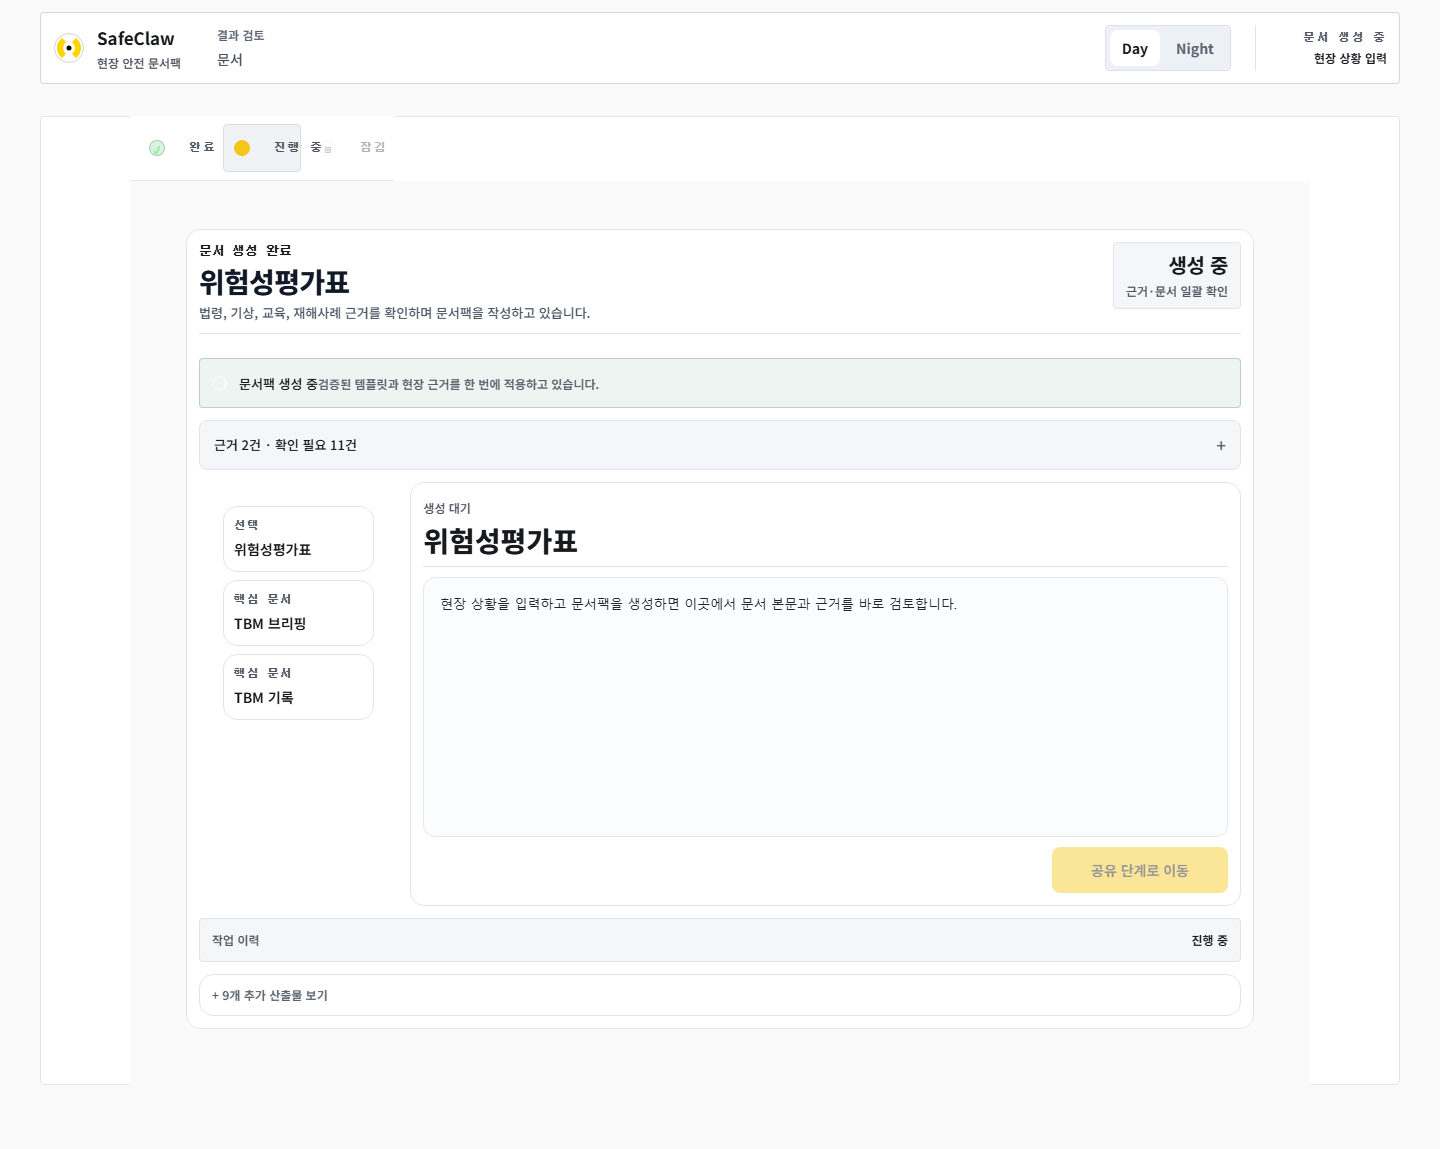
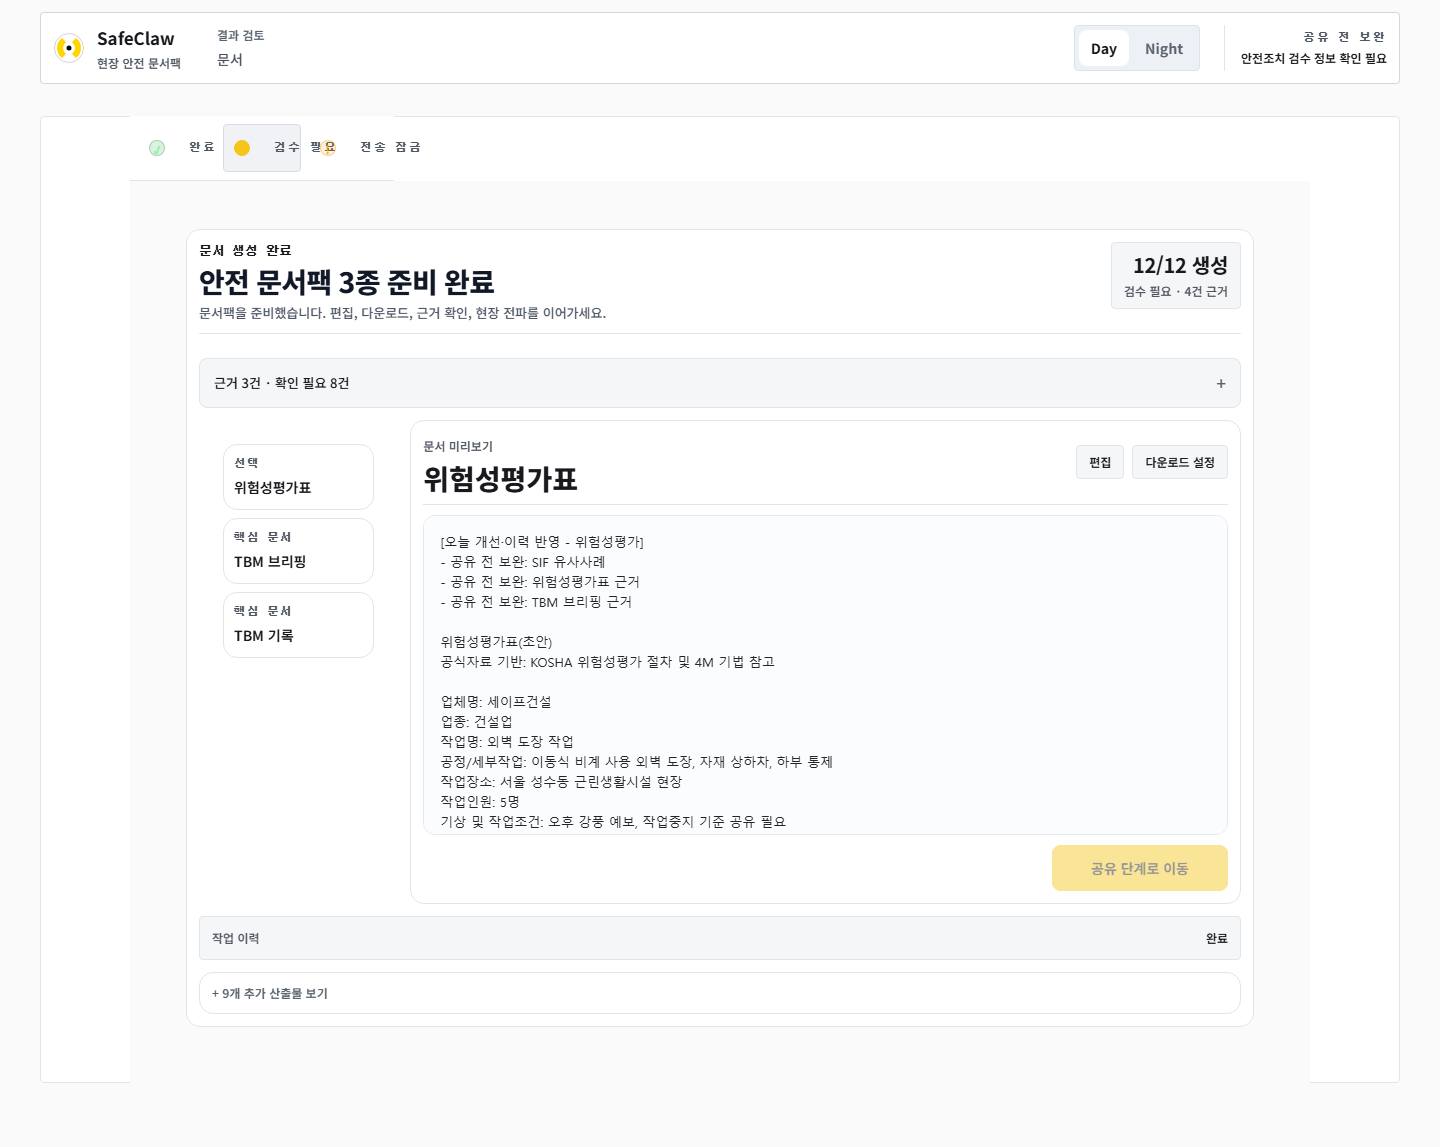
chore: document workspace share mismatch verdict

diff --git a/evaluation/workspace-docs-share-production-gate-2026-07-20/current-verdict.md b/evaluation/workspace-docs-share-production-gate-2026-07-20/current-verdict.md
@@ -4,35 +4,81 @@ Checked at: 2026-07-20 KST
 
 ## Verdict
 
-**FIXED for the original Documents/Share geometry blocker, with a remaining product-depth follow-up.**
+**PARTIALLY FIXED.**
 
-The current production surface no longer reproduces the old launch blocker for the default document review stage, the share desktop breakpoint, or the edit-mode first-action placement. The editor still has a long full document surface below the fold, but the first editable body now appears in the first viewport instead of being pushed below a risk-row editor.
+The current production surface no longer reproduces the old launch blocker for the default document review stage or the share desktop breakpoint. The staged `입력 -> 문서 -> 공유` flow is also real in the default flow: only one stage is visible at a time.
+
+However, the edit surface still contains a very tall internal document editor panel below the first action. So the mismatch is real: prior static/design-contract passes and the default document/share geometry gate did not fully prove the workflow-level edit experience the user expected.
 
 ## Authoritative Surface
 
-- Git HEAD used for source comparison: `b1ec3635dbc0f60b4964ee5befbe2e03d311813f`
+- Git HEAD used for source comparison: `778f4601b359adc7ea716ee84eebdaa58f026115`
 - Served URL: `https://www.safeclaw.kr/workspace`
 - Build info endpoint: `https://www.safeclaw.kr/api/build-info`
-- Served commit: `b1ec3635dbc0f60b4964ee5befbe2e03d311813f`
+- Served commit: `778f4601b359adc7ea716ee84eebdaa58f026115`
 - Served branch: `master`
-- Deployment URL: `safeguard-contest-5yybjwagl-seojaehongs-projects.vercel.app`
+- Deployment URL: `safeguard-contest-iig0xw90t-seojaehongs-projects.vercel.app`
+
+The current probe waits for generated document readiness (`12/12 생성` or `안전 문서팩 3종 준비 완료`) before measuring, so it does not accidentally capture the interim generating shell.
 
 ## Results
 
 | Viewport | Stage | Page height | Stage y | Stage height | Key result |
 | --- | --- | ---: | ---: | ---: | --- |
-| 1440x900 | Documents review | 1149 | 229 | 800 | Fixed versus prior 2070px/723px sticky report |
-| 1440x900 | Document edit | 1489 | 63 editor y / 350 textarea y | 2561 editor height | Improved; editable body is now first-viewport visible |
+| 1440x900 | Documents review | 1147 | 229 | 798 | Fixed versus prior 2070px/723px sticky report |
+| 1440x900 | Document edit | 1489 | 63 editor y / 350 textarea y | 2561 editor height | Partially fixed; first textarea is visible, but the editor surface remains overlong |
 | 1440x900 | Share | 1174 | 189 | 921 | Fixed; 1180px desktop surface, not mobile-card width |
 | 390x844 | Documents review | 1417 | 262 | 1050 | Acceptable as a compact step, no horizontal overflow |
-| 390x844 | Document edit | 1152 | 84 editor y / 407 textarea y | 2696 editor height | Fixed versus the late first-body blocker; textarea starts in the first viewport |
+| 390x844 | Document edit | 1152 | 84 editor y / 407 textarea y | 2696 editor height | Partially fixed; textarea starts in the first viewport, but hidden editor depth remains high |
 | 390x844 | Share | 1487 | 244 | 1138 | Not the old 3836px share body; one primary CTA, no horizontal overflow |
 
 ## Interpretation
 
-The staged `입력 -> 문서 -> 공유` routing is now real in the default flow: only one of input, documents, or share is visible at a time. The old share desktop problem is also fixed on current production because the share surface is 1180px wide at 1440px desktop.
+The original default-stage complaints are fixed on current production:
 
-The bounded edit remediation moved the 위험성평가 구조화 행 editor below the document body. On mobile, the first textarea now begins at y=407 in an 844px viewport; on desktop it begins at y=350. This closes the "편집 후 첫 행동이 아래로 밀리는" geometry issue while preserving the structured risk-row editor, provenance drawers, and export tools below the main body.
+- Documents default review is `1147 / 900 = 1.27x` on desktop, not the old `2070 / 723 = 2.86x` report.
+- Mobile default review is `1417 / 844 = 1.68x`, with no horizontal overflow or sticky overlap.
+- Desktop share is a `1180px` surface at `1440px`, so it is no longer a narrow mobile-card layout.
+- Share has one primary CTA and no horizontal overflow on desktop or mobile.
+
+The remaining mismatch is the edit-mode product depth:
+
+- Desktop edit body is `1489 / 900 = 1.65x`, and the editor panel itself reports `2561px` height.
+- Mobile edit body is `1152 / 844 = 1.36x`, but the editor panel reports `2696px` height.
+- This means the first editable textarea is near the first viewport (`y=350` desktop, `y=407` mobile), but the full edit model still carries a long below-fold surface.
+
+That is why the prior "done" signal and the user's current perception diverged: the implemented work closed default review/share geometry and first editor entry, but did not fully redesign edit mode into a short, field-first document editor.
+
+## Implementation Trace
+
+The requested UX work was implemented across bounded fixes that are integrated into current HEAD:
+
+- `54af1d7d` `fix: tighten workspace document and share stages`
+  - touched `components/SafeGuardCommandCenter.tsx`, `app/globals.css`, `tests/frontend-workbench-visual-contract.test.ts`, `tests/north-star-document-ux.test.ts`, `tests/workspace-share-mobile-browser.test.ts`
+  - changed staged workspace documents/share surfaces and captured desktop/mobile evidence.
+- `652ba44c` `fix: widen workspace share desktop surface`
+  - touched `app/globals.css`
+  - widened the share surface on desktop.
+- `98ddcddd` `fix: widen workspace share desktop layout`
+  - touched `app/globals.css`
+  - further adjusted the share desktop composition.
+- `4a6e35fb` `fix: compact documents mobile editor entry`
+  - touched `app/globals.css`
+  - moved the mobile edit entry up and reduced the first-action delay.
+- `a2535d21` `chore: tighten workspace doc share gate`
+  - tightened the production gate so document measurements wait for generated-state readiness.
+
+All five commits are ancestors of current HEAD `778f4601`. A separate older geometry commit `ddda375d` is not an ancestor of this branch, but the current DOM/CSS still contains the effective later fixes listed above.
+
+## Mismatch Finding
+
+**Reason for mismatch:** prior completion language was too broad. It should have said "default document review and share desktop layout fixed; edit mode still has product-depth work."
+
+Possible user-surface mismatch sources:
+
+- If the user saw a narrow share card on desktop, they were likely on stale/non-authoritative local dev, cached deploy, or an older branch. Current production build `778f4601` renders `1180px` share width.
+- If the user clicked `편집` and judged the full edit experience, that is not stale. The current production edit surface is still long internally and remains a bounded UX follow-up.
+- Static 0 / 108 contract passes should not be treated as proof for this workflow-level gate unless they also measure generated document readiness, document height ratio, editor entry y-position, sticky overlap, and desktop share width.
 
 ## Evidence
 
@@ -48,10 +94,11 @@ The bounded edit remediation moved the 위험성평가 구조화 행 editor belo
 
 ## Next Remediation Gate
 
-Bounded fix target: keep review/share as they are, and only compress edit mode.
+Bounded fix target: keep default review/share as they are, and compress edit mode without changing the generation/harness contract.
 
-- Desktop edit: editor body should fit the first viewport better, with the editable body visible without deep scrolling.
-- Mobile edit: textarea or first structured field should start above y=420, and editor page height should be materially reduced.
+- Desktop edit: keep textarea y <= 350 and reduce internal editor panel height materially from 2561px.
+- Mobile edit: keep textarea y <= 420 and reduce internal editor panel height materially from 2696px.
+- Replace the long single textarea/default appendix feel with field-first document editing and collapsed provenance/export tools.
 - Keep one visible stage at a time.
 - Preserve existing workpack/document persistence and provenance data.
 
@@ -77,13 +124,20 @@ Verification:
 
 ## Post-Deploy Verification
 
-After commit `b1ec3635dbc0f60b4964ee5befbe2e03d311813f` was deployed to production, the same geometry probe was rerun against `https://www.safeclaw.kr`.
+After commit `778f4601b359adc7ea716ee84eebdaa58f026115` was deployed to production, the same geometry probe was rerun against `https://www.safeclaw.kr`.
 
-- Served commit: `b1ec3635dbc0f60b4964ee5befbe2e03d311813f`
-- Desktop documents review: page height 1149, horizontal overflow false
+- Served commit: `778f4601b359adc7ea716ee84eebdaa58f026115`
+- Desktop documents review: page height 1147, horizontal overflow false
 - Desktop share: 1180px share surface, one primary CTA, horizontal overflow false
 - Mobile documents review: page height 1417, horizontal overflow false
 - Mobile document edit: page height 1152, horizontal overflow false, no sticky/fixed overlap detected, first textarea y=407
 - Mobile share: page height 1487, one primary CTA, horizontal overflow false
 
 Raw evidence was refreshed in `current-geometry.json` and the `*-current-*.png` screenshots.
+
+## Current Verification
+
+- `node evaluation\workspace-docs-share-production-gate-2026-07-20\run-current-geometry-probe.mjs` — PASS, served commit `778f4601b359adc7ea716ee84eebdaa58f026115`, generated-state wait included.
+- `node -e "JSON.parse(...current-geometry.json); JSON.parse(...mismatch-investigation-2026-07-20.json)"` — PASS.
+- `npm.cmd test -- tests\workspace-layout-regression.test.ts tests\workspace-share-mobile-browser.test.ts --maxWorkers=1 --fileParallelism=false` — 2 files / 28 tests PASS, 1 skipped. Duration 201.93s.
+- `git diff --check` — PASS, line-ending warnings only.

diff --git a/evaluation/workspace-docs-share-production-gate-2026-07-20/mismatch-investigation-2026-07-20.md b/evaluation/workspace-docs-share-production-gate-2026-07-20/mismatch-investigation-2026-07-20.md
@@ -1,0 +1,73 @@
+# Workspace Documents/Share Mismatch Investigation
+
+Checked at: 2026-07-20 KST
+
+## Verdict
+
+**PARTIALLY FIXED.**
+
+The default `입력 -> 문서 -> 공유` route flow and desktop share layout are fixed on current production. The remaining issue is the document edit surface: the first textarea is visible in the first viewport, but the editor panel still has excessive internal depth.
+
+## Current Authoritative Surface
+
+- Source HEAD: `778f4601b359adc7ea716ee84eebdaa58f026115`
+- Served URL: `https://www.safeclaw.kr/workspace`
+- Served commit: `778f4601b359adc7ea716ee84eebdaa58f026115`
+- Served branch: `master`
+- Deployment URL: `safeguard-contest-iig0xw90t-seojaehongs-projects.vercel.app`
+- Probe guard: waits for `12/12 생성` or `안전 문서팩 3종 준비 완료` before measuring documents.
+
+## What Was Implemented
+
+These bounded UX commits are integrated into current HEAD:
+
+- `54af1d7d` `fix: tighten workspace document and share stages`
+- `652ba44c` `fix: widen workspace share desktop surface`
+- `98ddcddd` `fix: widen workspace share desktop layout`
+- `4a6e35fb` `fix: compact documents mobile editor entry`
+- `a2535d21` `chore: tighten workspace doc share gate`
+
+The older `ddda375d` geometry commit is not an ancestor of the current branch, but the current served geometry reflects the later integrated fixes above.
+
+## Current Measurements
+
+| Surface | Viewport | Height ratio | Key geometry | Status |
+| --- | --- | ---: | --- | --- |
+| Documents review | 1440x900 | 1.27x | page 1147px, document y=229, no overflow, sticky 0 | Fixed |
+| Document edit | 1440x900 | 1.65x | textarea y=350, editor panel 2561px, sticky 1 | Partial |
+| Share | 1440x900 | 1.30x | share width 1180px, one primary CTA, no overflow | Fixed |
+| Documents review | 390x844 | 1.68x | document y=262, no overflow, sticky 0 | Fixed |
+| Document edit | 390x844 | 1.36x | textarea y=407, editor panel 2696px, sticky 0 | Partial |
+| Share | 390x844 | 1.76x | share width 336px, one primary CTA, no overflow | Fixed |
+
+## Why The User Still Saw A Problem
+
+The previous "done" signal was too broad. It closed the original default document review and desktop share layout blocker, but it did not fully close the edit-mode information-density problem.
+
+If the user saw a narrow share card on desktop, that was likely stale/non-authoritative surface: old local dev server, old branch, cached deployment, wrong URL, or pre-`778f4601` build. Current production renders an 1180px share surface at 1440px.
+
+If the user clicked `편집` and judged the long edit screen, that is a real remaining issue. The current production editor still carries a long internal panel below the first editable area.
+
+Static typography/design-contract passes should not be used as evidence for this workflow-level UX. The gate must explicitly measure generated-state readiness, stage separation, document height, edit entry y-position, sticky overlap, and desktop share width.
+
+## Bounded Remediation Path
+
+Keep the now-fixed default review/share surfaces. Remediate only document edit mode:
+
+- Keep one visible stage at a time.
+- Keep desktop textarea y <= 350 and mobile textarea y <= 420.
+- Reduce editor internal panel height materially from 2561px desktop and 2696px mobile.
+- Move provenance/export/supporting content behind collapsed controls without deleting data contracts.
+- Re-run `run-current-geometry-probe.mjs` against production and require fixed default review/share metrics to remain stable.
+
+Raw evidence:
+
+- `evaluation/workspace-docs-share-production-gate-2026-07-20/current-geometry.json`
+- `evaluation/workspace-docs-share-production-gate-2026-07-20/mismatch-investigation-2026-07-20.json`
+
+Verification:
+
+- `node evaluation\workspace-docs-share-production-gate-2026-07-20\run-current-geometry-probe.mjs` — PASS, served commit `778f4601b359adc7ea716ee84eebdaa58f026115`, generated-state wait included.
+- JSON parse for `current-geometry.json` and `mismatch-investigation-2026-07-20.json` — PASS.
+- `npm.cmd test -- tests\workspace-layout-regression.test.ts tests\workspace-share-mobile-browser.test.ts --maxWorkers=1 --fileParallelism=false` — 2 files / 28 tests PASS, 1 skipped. Duration 201.93s.
+- `git diff --check` — PASS, line-ending warnings only.
